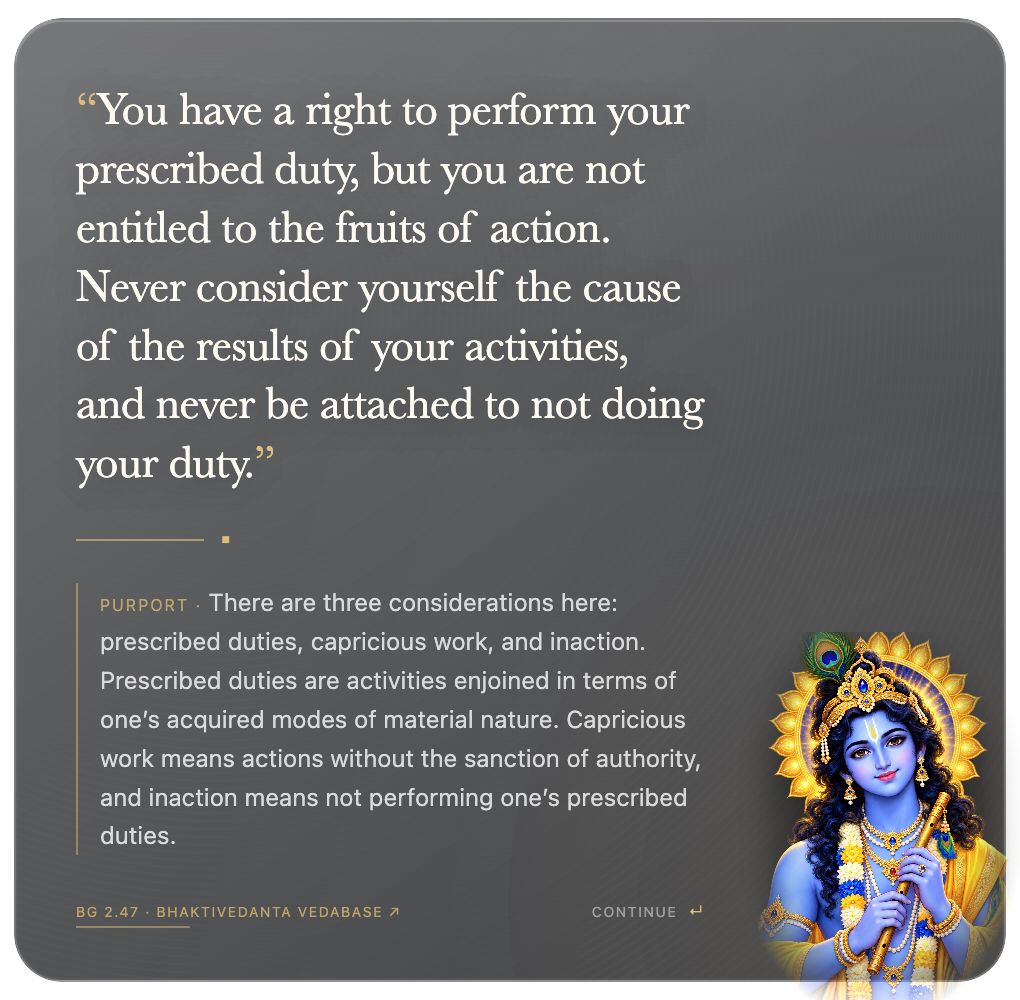
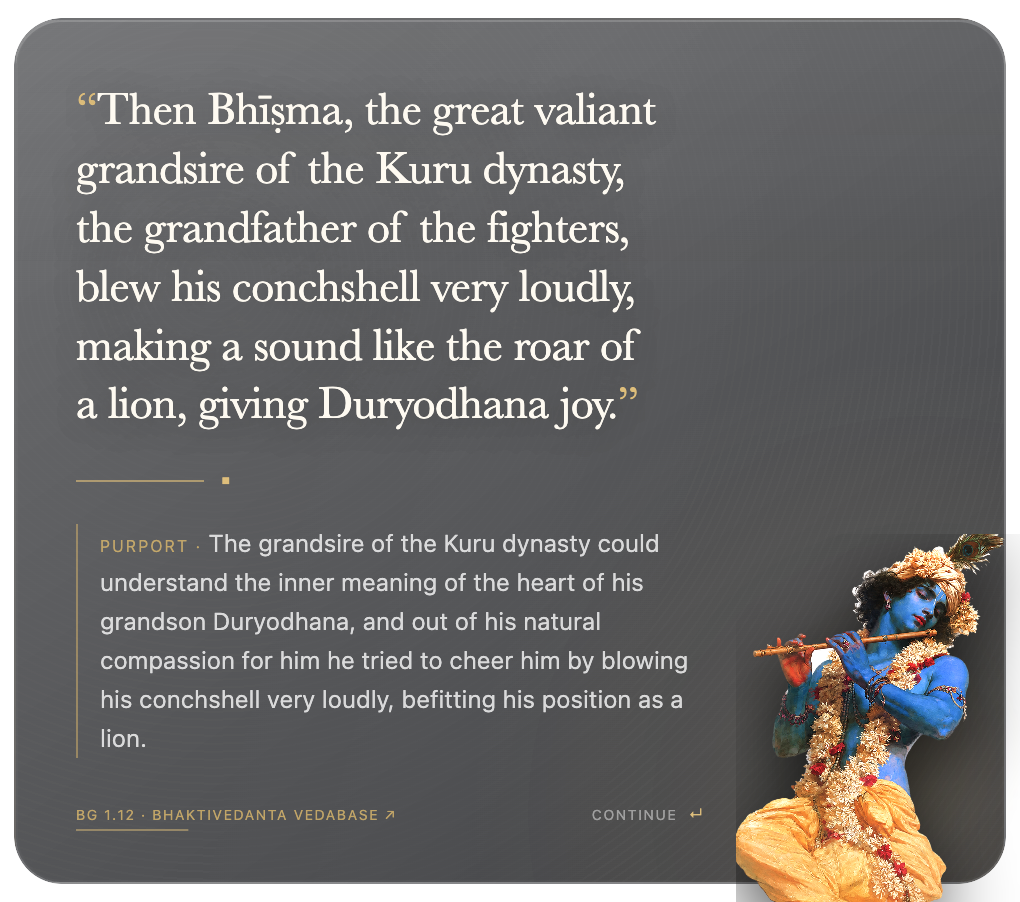
Replace figurine artwork with the flute painting cutout

diff --git a/src/styles.css b/src/styles.css
@@ -322,19 +322,19 @@ button { font: inherit; }
 
 .figure img {
   position: absolute;
-  inset: -2% -4% -1%;
-  width: 108%;
-  height: 103%;
+  inset: -3% -5% -2%;
+  width: 110%;
+  height: 105%;
   object-fit: cover;
-  object-position: center 16%;
+  object-position: 50% 32%;
   pointer-events: none;
   z-index: 1;
   opacity: .55;
   mix-blend-mode: screen;
   filter: saturate(.8) contrast(1.05) brightness(.82) drop-shadow(0 8px 13px rgba(0, 0, 0, .55));
   transition: opacity .8s ease, filter .8s ease, transform .8s cubic-bezier(.16, 1, .3, 1);
-  -webkit-mask-image: radial-gradient(ellipse 60% 70% at 50% 47%, #000 37%, rgba(0,0,0,.92) 57%, transparent 82%);
-  mask-image: radial-gradient(ellipse 60% 70% at 50% 47%, #000 37%, rgba(0,0,0,.92) 57%, transparent 82%);
+  -webkit-mask-image: radial-gradient(ellipse 108% 108% at 50% 43%, #000 72%, rgba(0,0,0,.92) 88%, transparent 100%);
+  mask-image: radial-gradient(ellipse 108% 108% at 50% 43%, #000 72%, rgba(0,0,0,.92) 88%, transparent 100%);
 }
 
 .collapsing .card {

diff --git a/README.md b/README.md
@@ -74,7 +74,7 @@ Every word shown to the reader is copied as is from A. C. Bhaktivedanta Swami Pr
 
 `data/gita.json` is built by `npm run fetch`, which reads VedaBase at the crawl delay its `robots.txt` asks for (about two hours for the full text) and caches every page under `data/cache/`.
 
-The text of *Bhagavad-gītā As It Is* is © The Bhaktivedanta Book Trust International, Inc. This repository's MIT license covers the software code only, not the quoted text. The Krishna artwork was generated specifically for this project. This is an independent project and is not affiliated with or endorsed by ISKCON, the Bhaktivedanta Book Trust, or VedaBase. Obtain written permission from the BBT before distributing this repository publicly.
+The text of *Bhagavad-gītā As It Is* is © The Bhaktivedanta Book Trust International, Inc. This repository's MIT license covers the software code only, not the quoted text. The Krishna painting is another artist's work and requires the artist's permission before any public release. This is an independent project and is not affiliated with or endorsed by ISKCON, the Bhaktivedanta Book Trust, or VedaBase. Obtain written permission from the BBT before distributing this repository publicly.
 
 ## How context and sequence are saved
 
